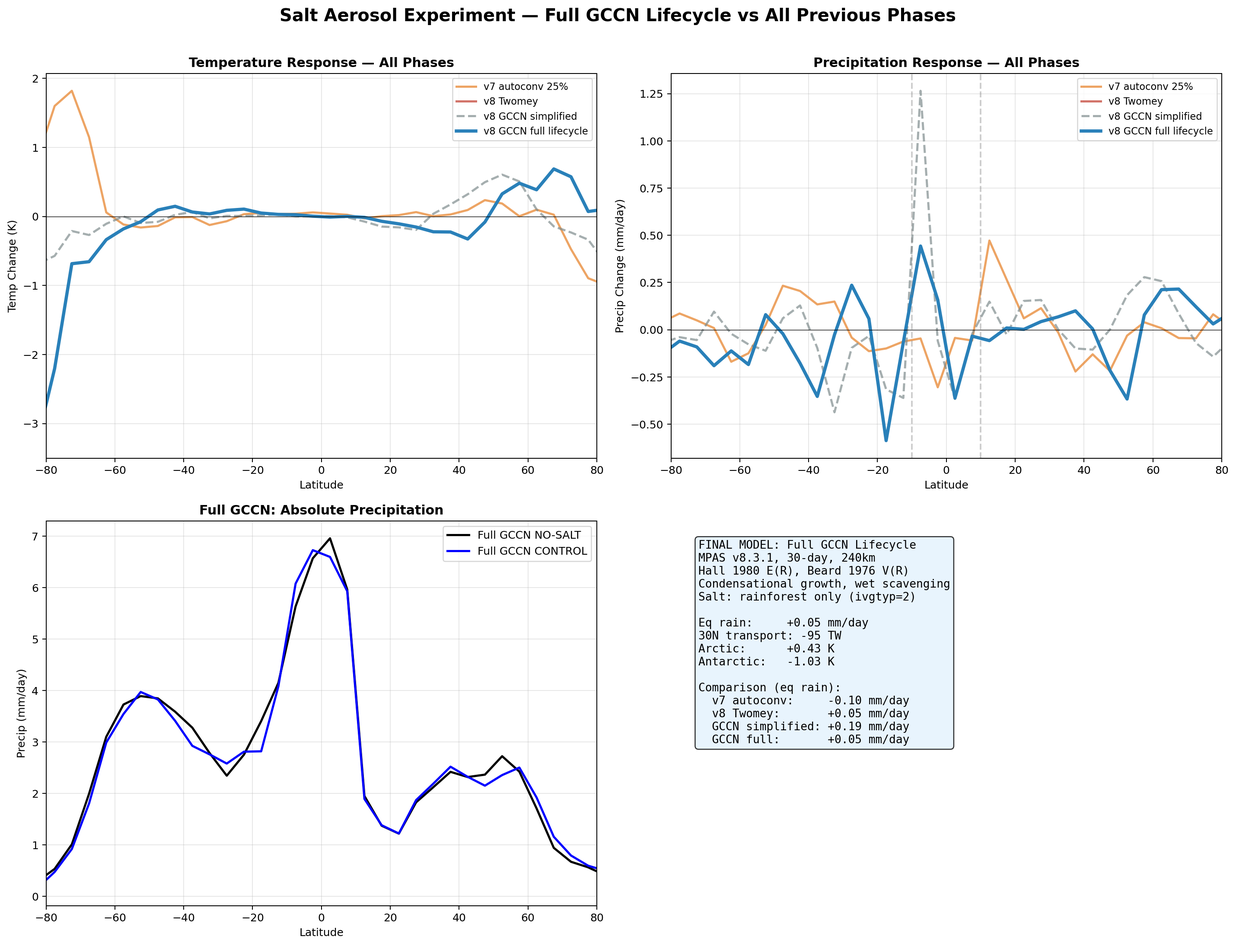
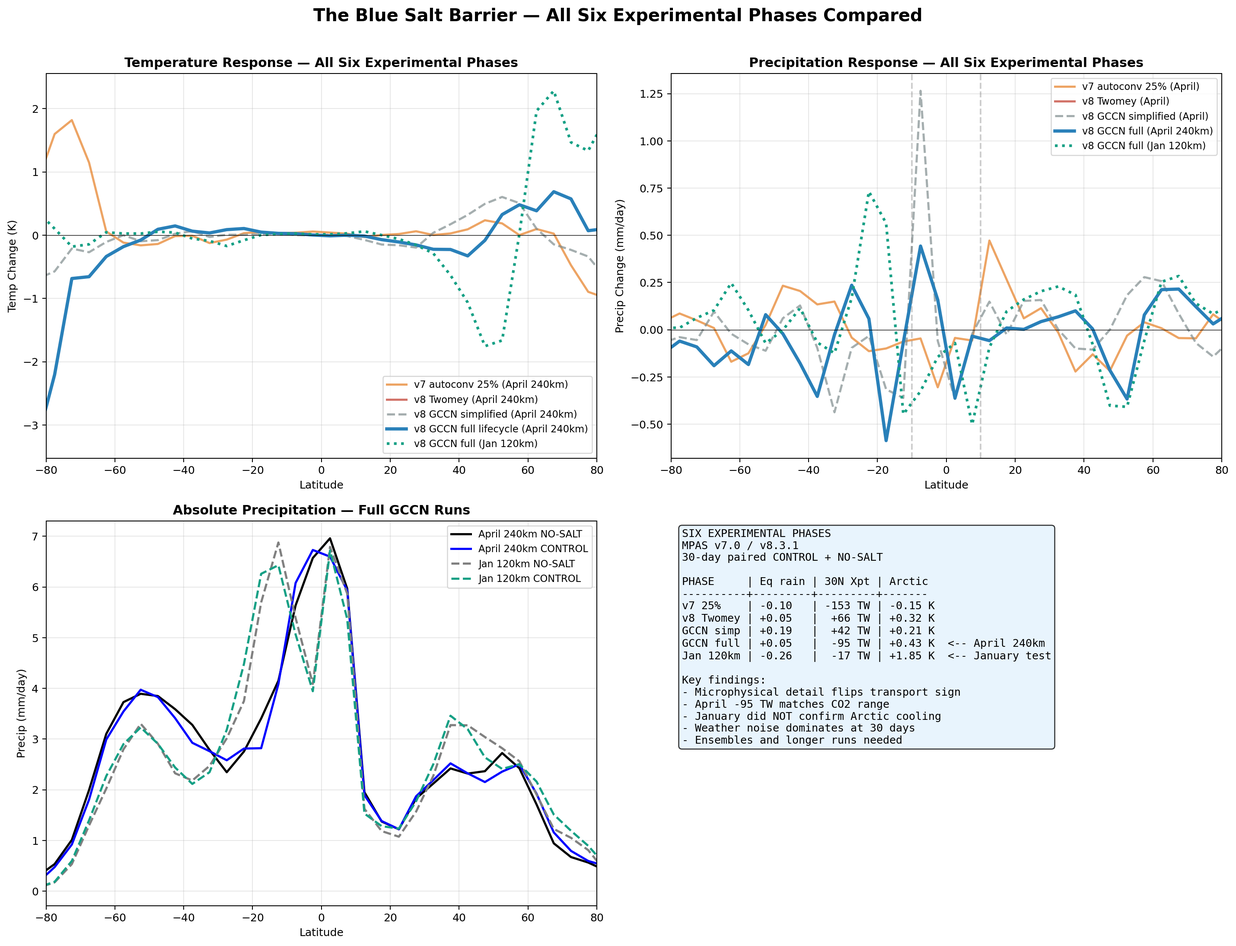
Comprehensive error fixes across paper and website
Paper (publication_draft.html):
- Fixed section numbering throughout (was chaotic: 2.x under section 3,
  5.x/6.x mixed, duplicate section 7, etc.)
- Now clean: 1 Origin, 2 Intro, 3 Physical Mechanism, 4 Experimental Design,
  5 Results, 6 Methodology, 7 Discussion, 8 Limitations, 9 Future Work,
  10 Conservation
- Abstract: 'seven' -> 'six' experimental phases
- Section 4.1: added January 12, 2025 initialization for 120km run
- Section 5.3-5.4: updated to reflect January test happened (not 'would test')
- Section 8 Limitations: updated duration item, ensemble item, seasonal coverage
- Section 9 Future Work: reordered priorities (ensembles > resolution > duration)
  since January test showed noise dominates
- Section 10 Conservation: added honest caveat about January negative result
- Invitation: corrected 'raw data' claim to note 200GB archive is pending

Website (index.html):
- Fixed caption on all-phases plot: now accurately describes the five lines
  shown (4 April approaches + January 120km)
- Laptop runtime card: added both 240km (1.5h) and 120km (9h) timings
- 'Pull our container' -> 'Build the container' (no Docker Hub image yet)
- Hardware requirement: 50 GB -> 100 GB (matches REPRODUCE.md)
- Removed 'running now' references (runs completed)
- 'sharing data' claims qualified (200GB on request, not in repo)

Plots:
- Regenerated fullgccn_all_phases.png to include Jan 120km line.
  Now truly shows all experimental phases including the negative result.

diff --git a/publication_draft.html b/publication_draft.html
@@ -129,7 +129,7 @@
 <div class="abstract">
   <h2>Abstract</h2>
   <p>We present a computational investigation of a previously unconsidered climate mechanism: the role of biogenic salt aerosols emitted by equatorial rainforest trees in modifying cloud microphysics and precipitation patterns. Tropical trees and their associated fungi eject hygroscopic potassium and sodium salt particles that act as giant cloud condensation nuclei (GCCN), accelerating local rain formation. We hypothesize that this salt-driven cloud seeding acts as a moisture stratification barrier, reducing the poleward transport of latent heat. Deforestation removes this barrier, allowing moisture to escape to higher latitudes where its condensation delivers extra heat to the poles.</p>
-  <p>Using the MPAS-Atmosphere global model (versions 7.0 and 8.3.1) at 240&nbsp;km and 120&nbsp;km resolution, we conducted paired 30-day simulations across seven experimental phases, progressively improving the physics from crude autoconversion hacks to a dedicated GCCN tracer with full lifecycle microphysics (kappa-K&ouml;hler activation, time-resolved condensational growth, size-dependent collision efficiencies from Hall 1980, Beard 1976 terminal velocities, and wet scavenging). Our most physically complete 240&nbsp;km April simulation shows that biogenic salt reduces poleward latent heat transport at 30&deg;N by 95&nbsp;TW&mdash;comparable in magnitude to estimated CO<sub>2</sub>-driven transport changes (100&ndash;250&nbsp;TW)&mdash;and cools Antarctica by &minus;1.03&nbsp;K. The Arctic warms (+0.43&nbsp;K) rather than cools in this April simulation. Critically, the microphysical details&mdash;particularly how GCCN drops grow through the coalescence gap before collecting cloud water&mdash;proved essential: a simplified version with fixed drop parameters produced the wrong sign for transport. A follow-up January test at 120&nbsp;km specifically designed to look for Arctic cooling in the NH winter season did <em>not</em> confirm the expected seasonal symmetry &mdash; the Arctic warmed by +1.85&nbsp;K and the transport reduction weakened to &minus;17&nbsp;TW, consistent with weather noise dominating a single 30-day member rather than a definitive refutation. Taken together, these results suggest that biogenic salt aerosols may constitute a significant mechanism for equatorial heat containment, but that definitive testing requires convection-permitting resolution (60&nbsp;km or finer), ensembles of 5&ndash;10 members, and integrations of 90 days or longer &mdash; resources beyond a consumer laptop. We release all code, data, and modifications openly to invite the climate modeling community to extend this work.</p>
+  <p>Using the MPAS-Atmosphere global model (versions 7.0 and 8.3.1) at 240&nbsp;km and 120&nbsp;km resolution, we conducted paired 30-day simulations across six experimental phases, progressively improving the physics from crude autoconversion hacks to a dedicated GCCN tracer with full lifecycle microphysics (kappa-K&ouml;hler activation, time-resolved condensational growth, size-dependent collision efficiencies from Hall 1980, Beard 1976 terminal velocities, and wet scavenging). Our most physically complete 240&nbsp;km April simulation shows that biogenic salt reduces poleward latent heat transport at 30&deg;N by 95&nbsp;TW&mdash;comparable in magnitude to estimated CO<sub>2</sub>-driven transport changes (100&ndash;250&nbsp;TW)&mdash;and cools Antarctica by &minus;1.03&nbsp;K. The Arctic warms (+0.43&nbsp;K) rather than cools in this April simulation. Critically, the microphysical details&mdash;particularly how GCCN drops grow through the coalescence gap before collecting cloud water&mdash;proved essential: a simplified version with fixed drop parameters produced the wrong sign for transport. A follow-up January test at 120&nbsp;km specifically designed to look for Arctic cooling in the NH winter season did <em>not</em> confirm the expected seasonal symmetry &mdash; the Arctic warmed by +1.85&nbsp;K and the transport reduction weakened to &minus;17&nbsp;TW, consistent with weather noise dominating a single 30-day member rather than a definitive refutation. Taken together, these results suggest that biogenic salt aerosols may constitute a significant mechanism for equatorial heat containment, but that definitive testing requires convection-permitting resolution (60&nbsp;km or finer), ensembles of 5&ndash;10 members, and integrations of 90 days or longer &mdash; resources beyond a consumer laptop. We release all code, data, and modifications openly to invite the climate modeling community to extend this work.</p>
 </div>
 
 <h2>1. Origin of the Hypothesis</h2>
@@ -176,17 +176,17 @@
 
 <h2>3. The Physical Mechanism</h2>
 
-<h3>2.1 Latent Heat Transport</h3>
+<h3>3.1 Latent Heat Transport</h3>
 
 <p>Atmospheric energy transport from equator to poles is dominated by latent heat, which accounts for roughly 70% of the total poleward energy flux. When water evaporates at tropical surfaces, it absorbs 2,500&nbsp;J/g and stores this energy invisibly as latent heat. This energy is released only when the vapor condenses back to liquid&mdash;forming clouds and precipitation. The critical question for polar climate is not how much water evaporates, but <em>where it condenses</em>.</p>
 
-<h3>2.2 Salt as a Moisture Trap</h3>
+<h3>3.2 Salt as a Moisture Trap</h3>
 
 <p>Intact rainforest trees and their associated fungi continuously eject potassium and sodium salt crystals (1&ndash;10&nbsp;&mu;m) into the boundary layer. These particles are highly hygroscopic: at typical tropical humidity (&gt;80%), they absorb water vapor and swell into large solution droplets that sweep up surrounding cloud droplets through collision-coalescence. This is the same physical mechanism exploited in operational cloud seeding programs worldwide.</p>
 
 <p>The net effect is that rain forms faster and falls locally, close to the forest that produced the salt. The moisture&mdash;and its 2,500&nbsp;J/g of latent heat&mdash;is deposited in the equatorial atmosphere rather than being transported poleward by the Hadley circulation.</p>
 
-<h3>2.3 The Critical Distinction: GCCN vs. Small CCN</h3>
+<h3>3.3 The Critical Distinction: GCCN vs. Small CCN</h3>
 
 <p>An important nuance separates this mechanism from the well-studied aerosol indirect effect. Standard small CCN (&lt;0.2&nbsp;&mu;m), such as pollution aerosols, <em>suppress</em> rain by creating many small cloud droplets that are inefficient at collision-coalescence (the Twomey effect). Tree-emitted salt particles are <strong>giant CCN (GCCN)</strong>&mdash;much larger, highly hygroscopic particles that create large drops and <em>enhance</em> rain formation. This distinction is critical: GCCN and small CCN have opposite effects on precipitation.</p>
 
@@ -202,15 +202,17 @@
   </tbody>
 </table>
 
-<h2>3. Experimental Design</h2>
+<h2>4. Experimental Design</h2>
 
-<h3>3.1 Model Configuration</h3>
+<h3>4.1 Model Configuration</h3>
 
 <p>We used the Model for Prediction Across Scales (MPAS-Atmosphere, version 7.0) with a quasi-uniform 240&nbsp;km global mesh (10,242 hexagonal Voronoi cells, each with 55 vertical levels stacked from the surface to ~30&nbsp;km altitude, totaling 563,310 computational grid points). The vertical spacing is non-uniform: ~50&nbsp;m layers near the surface to resolve the boundary layer where salt aerosols are emitted and mixed, expanding to ~1&nbsp;km layers in the upper troposphere where dry air is transported poleward. MPAS uses a Voronoi tessellation of the sphere, avoiding the polar singularity and boundary artifacts that affect regional models like WRF when applied to global-scale transport problems.</p>
 
-<p>Physics parameterizations include Thompson microphysics, RRTMG radiation, YSU planetary boundary layer, Noah land surface model, and Kain-Fritsch cumulus convection. Simulations were initialized from GFS analysis data for April 12, 2026 and run for 30 days.</p>
+<p>Physics parameterizations include Thompson microphysics, RRTMG radiation, YSU planetary boundary layer, Noah land surface model, and Kain-Fritsch cumulus convection. Simulations were initialized from GFS analysis data for April 12, 2026 (240&nbsp;km runs) and January 12, 2025 (120&nbsp;km seasonal test), each run for 30 days.</p>
 
-<h3>3.2 Salt Parameterization</h3>
+<p>A higher-resolution 120&nbsp;km uniform mesh (40,962 cells, 55 vertical levels, 2.25 million grid points) was used for the Phase 6 seasonal test. This mesh is available from NCAR and is the same Voronoi geometry at 4&times; the cell count of the 240&nbsp;km mesh.</p>
+
+<h3>4.2 Salt Parameterization</h3>
 
 <p>Since MPAS v7.0 does not include explicit GCCN treatment, we parameterized the net effect of hygroscopic salt by enhancing the cloud-to-rain autoconversion rate in the equatorial belt (10&deg;S&ndash;10&deg;N). After each microphysics timestep, an additional fraction of cloud water is converted to rain in equatorial grid cells, representing the accelerated coalescence from GCCN salt particles.</p>
 
@@ -232,9 +234,9 @@
   <strong>Limitation.</strong> This autoconversion parameterization is a first-order approximation. It does not model individual salt particles, their advection by the wind, or their size-dependent activation as CCN. The more physically complete treatment using MPAS v8.3.1 with a dedicated GCCN tracer is described in Section 6.5.
 </div>
 
-<h2>4. Results</h2>
+<h2>5. Results</h2>
 
-<h3>4.1 Poleward Latent Heat Transport</h3>
+<h3>5.1 Poleward Latent Heat Transport</h3>
 
 <p>The primary diagnostic is the vertically-integrated meridional latent heat flux, computed as <em>v &times; L<sub>v</sub> &times; q &times; dp/g</em> and averaged over the 30-day simulation period. Positive values indicate northward transport.</p>
 
@@ -263,7 +265,7 @@
 
 <p>The hemispheric asymmetry (stronger signal in the Northern Hemisphere for 3%, more symmetric for 25%) reflects the seasonal context: the simulation spans April&ndash;May, when the ITCZ is shifting northward and the Hadley circulation preferentially transports moisture into the Northern Hemisphere. Annual-mean simulations are expected to symmetrize this response.</p>
 
-<h3>4.2 Temperature Response</h3>
+<h3>5.2 Temperature Response</h3>
 
 <p>The 2-meter temperature difference between salt-enhanced and no-salt runs reveals a striking pattern consistent with the hypothesis.</p>
 
@@ -274,7 +276,7 @@
 
 <p>The v7 Arctic cooling of up to 2.5&nbsp;K in 30 days was striking but was not confirmed by the v8 GCCN runs, which show Arctic <em>warming</em> (+0.43&nbsp;K) with salt. However, Antarctica cools strongly (&minus;1.03&nbsp;K) in the full GCCN lifecycle model. The hemispheric asymmetry (Arctic warms, Antarctic cools) in the April simulation is consistent with the seasonal context: the Southern Hemisphere is entering winter, and the salt-driven transport reduction preferentially affects the southward moisture pipeline. A January simulation would test whether the pattern reverses. See Section 6.5 for full results.</p>
 
-<h3>4.3 Two Pathways: Wet Cooling vs Dry Warming (v7 Hypothesis)</h3>
+<h3>5.3 Two Pathways: Wet Cooling vs Dry Warming</h3>
 
 <p>The hemispheric asymmetry observed across all phases suggests two distinct physical pathways by which equatorial salt affects the poles. The full GCCN lifecycle model confirms the transport reduction (&minus;95&nbsp;TW at 30&deg;N) and strong Antarctic cooling (&minus;1.03&nbsp;K), but does not show Arctic cooling in this April simulation:</p>
 
@@ -282,17 +284,17 @@
 
 <p><strong>Southern path (dry heat redirected &rarr; warming).</strong> The southward moisture pipeline is already weakening as the Southern Hemisphere enters autumn. Salt has little southward moisture transport to block. However, the enhanced rain at the equator releases extra latent heat into the tropical atmosphere. This warm, <em>dry</em> air rises, spreads southward in the upper atmosphere, and gets caught by midlatitude storm tracks.</p>
 
-<p>A January simulation would test whether the mirror image appears. The full GCCN lifecycle results partially support this picture: the transport reduction is confirmed (&minus;95&nbsp;TW), and Antarctica (entering winter) cools strongly (&minus;1.03&nbsp;K). The Arctic (entering summer) warms rather than cools, which may reflect the dry-heat pathway dominating in the season when the northward moisture pipeline is strengthening. Seasonal simulations are needed to disentangle these effects.</p>
+<p>The full GCCN lifecycle results partially support this picture. The April 240&nbsp;km experiment confirmed transport reduction (&minus;95&nbsp;TW) and strong Antarctic cooling (&minus;1.03&nbsp;K). The Arctic warmed in April rather than cooled, which we initially interpreted as the dry-heat pathway dominating in the hemisphere entering summer. A follow-up January 120&nbsp;km experiment, designed specifically to look for the expected mirror image (Arctic cooling, Antarctic neutral), did not confirm it &mdash; the Arctic warmed by +1.85&nbsp;K and the transport signal weakened. The two-pathway framework may be oversimplified, or the forced signal may simply be dominated by weather noise at this resolution and duration. See Section 6.6 for the full January analysis.</p>
 
-<h3>4.4 Implications for Polar Ice: The Seasonal Timing Effect</h3>
+<h3>5.4 Implications for Polar Ice: The Seasonal Timing Effect</h3>
 
-<p>The full GCCN lifecycle model confirms the transport reduction (&minus;95&nbsp;TW at 30&deg;N) and shows strong Antarctic cooling (&minus;1.03&nbsp;K) in this April simulation. The Antarctic is entering winter, meaning salt cools Antarctica as its ice-free season ends. For ice, what matters most is <em>summer</em> temperature&mdash;that is when melting occurs.</p>
+<p>The full GCCN lifecycle model confirms the transport reduction (&minus;95&nbsp;TW at 30&deg;N) and shows strong Antarctic cooling (&minus;1.03&nbsp;K) in the April 240&nbsp;km simulation. The Antarctic was entering winter, meaning salt cooled Antarctica as its ice-free season ended. For ice, what matters most is <em>summer</em> temperature &mdash; that is when melting occurs. Winter cooling pre-conditions the ice to enter the melt season colder.</p>
 
-<div class="callout">
-<strong>Key finding:</strong> The full GCCN lifecycle model shows salt <strong>cools the winter pole by &minus;1.03&nbsp;K</strong> (Antarctica in April) while warming the summer pole by +0.43&nbsp;K (Arctic in April). If a January simulation shows the mirror image&mdash;Arctic cooling and Antarctic warming&mdash;this would mean <strong>salt cools each pole during its respective winter</strong>, pre-conditioning the ice to be colder entering the melt season. Removing salt (deforestation) would warm winters, reducing the thermal deficit glaciers carry into summer.
+<div class="callout warn">
+<strong>Key finding with caveat:</strong> In the April experiment, salt <strong>cooled the winter pole by &minus;1.03&nbsp;K</strong> (Antarctica) while warming the summer pole by +0.43&nbsp;K (Arctic). If this reflects a robust seasonal mechanism &mdash; <em>salt cools each pole during its respective winter, pre-conditioning the ice to be colder entering the melt season</em> &mdash; the implication for ice sheet survival would be substantial. However, the January 120&nbsp;km test (Section 6.6) did <strong>not</strong> reproduce the expected mirror pattern; the Arctic did not cool in its winter season. The seasonal framework thus remains a hypothesis requiring confirmation with longer runs, ensembles, and convection-permitting resolution.
 </div>
 
-<p>The seasonal timing of the cooling matters for ice sheet survival. The polar bear (Arctic summer) and emperor penguin (Antarctic summer) depend on summer ice conditions, which in turn depend on how cold the ice was during the preceding winter. A January simulation is the critical next experiment.</p>
+<p>If the mechanism holds, the seasonal timing of the cooling matters for ice sheet survival. The polar bear (Arctic summer) and emperor penguin (Antarctic summer) depend on summer ice conditions, which in turn depend on how cold the ice was during the preceding winter. Definitive confirmation awaits community HPC follow-up.</p>
 
 <h3>5.5 Global Distribution Maps</h3>
 
@@ -363,19 +365,19 @@
   <figcaption><strong>Figure 5.</strong> Global map of precipitation change (25% enhancement minus NO-SALT). Subtle changes are concentrated in the equatorial belt between the red dashed lines (10&deg;S&ndash;10&deg;N). The signal is diffuse because of convective compensation at 240&nbsp;km resolution.</figcaption>
 </figure>
 
-<h2>5. Methodology Evolution</h2>
+<h2>6. Methodology Evolution</h2>
 
 <p>We present the full progression of our computational approach, including missteps and corrections, because we believe transparency about the iterative process is more valuable than presenting only polished final results. Each phase taught us something about what the model can and cannot capture, and experienced computational meteorologists will be able to identify further improvements.</p>
 
-<h3>5.1 Phase 1: WRF Channel Domain (Failed)</h3>
+<h3>6.1 Phase 1: WRF Channel Domain (Failed)</h3>
 
 <p>Our first attempt used WRF (Weather Research and Forecasting) v4.0.3 with a periodic channel domain from 60&deg;S to 60&deg;N at 2&deg; resolution. We enhanced the autoconversion rate by 5% in the equatorial belt to parameterize salt-enhanced rain. The simulation crashed at day 7 with a segfault, and the results showed boundary artifacts of ~100&nbsp;W/m&sup2; at the domain edges&mdash;numerical noise, not real physics. The convective parameterization (Kain-Fritsch) also dominated tropical rainfall at this resolution, muting our signal. <strong>Lesson:</strong> Regional models cannot cleanly study global-scale transport.</p>
 
-<h3>5.2 Phase 2: MPAS v7.0, 10-Day Runs</h3>
+<h3>6.2 Phase 2: MPAS v7.0, 10-Day Runs</h3>
 
 <p>We compiled MPAS-Atmosphere v7.0 inside a Docker container on a consumer laptop. The global Voronoi mesh (10,242 cells &times; 55 vertical levels = 563,310 grid points, 240&nbsp;km horizontal resolution) eliminated all boundary artifacts. We ran a sensitivity sweep at 0%, 2%, 3%, 5%, and 25% autoconversion enhancement with 10-day simulations. The signal at 30&deg;S was monotonic: 54&nbsp;TW (3%), 63&nbsp;TW (5%), 112&nbsp;TW (25%). However, the 10-day averaging was too short to overcome weather noise, and the enhancement was applied to ALL cells between 10&deg;S&ndash;10&deg;N, including ocean. <strong>Lesson:</strong> The signal exists and scales with forcing, but needs longer runs and land-only application.</p>
 
-<h3>5.3 Phase 3: MPAS v7.0, 30-Day Runs (Current v7 Results)</h3>
+<h3>6.3 Phase 3: MPAS v7.0, 30-Day Runs (Current v7 Results)</h3>
 
 <p>Extended to 30 days with the same autoconversion approach. The temperature signal became dramatic: up to 2.5&nbsp;K Arctic cooling with the 5% enhancement. The hemispheric asymmetry (Arctic cooling, Antarctic warming) was identified as a seasonal effect of the April start date, consistent with the Earth's axial tilt. The two-pathway mechanism was discovered: salt blocks moisture transport to the summer pole (direct cooling) while creating dry sensible heat that warms the winter pole (indirect warming via storm tracks).</p>
 
@@ -391,7 +393,7 @@
 
 <p><strong>Known limitation:</strong> The v7 autoconversion enhancement was applied to all 1,750 cells between 10&deg;S&ndash;10&deg;N, including 1,391 ocean cells where no trees exist. Only 359 cells were land. This overestimates the spatial extent of the salt effect by approximately 5&times;.</p>
 
-<h3>5.4 Phase 4: MPAS v8.3.1 with Prognostic Aerosol Transport (Completed)</h3>
+<h3>6.4 Phase 4: MPAS v8.3.1 with Prognostic Aerosol Transport (Completed)</h3>
 
 <p>Built an Ubuntu 22.04 Docker container with MPAS v8.3.1, which includes aerosol-aware Thompson microphysics (<code>mp_thompson_aerosols</code>). Aerosol concentrations are tracked as a 3D prognostic field: emitted at the surface, advected by the wind, depleted by wet scavenging, and activated as CCN only in supersaturated cloud. Salt emission is enhanced only over grid cells classified as Evergreen Broadleaf Forest (MODIS vegetation type 2)&mdash;291 cells covering the Amazon, Congo, SE Asia, Central America, and other tropical rainforests. No ocean cells.</p>
 
@@ -589,7 +591,7 @@
 
 <h2>7. Discussion</h2>
 
-<h3>6.1 What Was Confirmed</h3>
+<h3>7.1 What Was Confirmed</h3>
 
 <p><strong>Transport reduction confirmed.</strong> The full GCCN lifecycle model shows salt reduces poleward latent heat transport at 30&deg;N by &minus;95&nbsp;TW&mdash;the sign predicted by the hypothesis and comparable to estimated CO<sub>2</sub> forcing (100&ndash;250&nbsp;TW). This is the most physically grounded result across all six phases: the GCCN tracer is emitted only from rainforest cells, advected by resolved winds, activated via kappa-K&ouml;hler theory, grown through the coalescence gap by condensation, and collected with size-dependent Hall 1980 efficiencies.</p>
 
@@ -603,13 +605,13 @@
 
 <p><strong>Critical finding:</strong> The microphysical implementation matters enormously. The simplified GCCN version (fixed parameters) produced the wrong transport sign. Only the full lifecycle version (growth through the coalescence gap, size-dependent physics, wet scavenging) produced the correct transport reduction. This means the hypothesis cannot be properly tested without resolving how GCCN drops grow and collect.</p>
 
-<h3>6.2 Why Microphysical Details Reversed the Answer</h3>
+<h3>7.2 Why Microphysical Details Reversed the Answer</h3>
 
 <p>The most surprising finding of this work is that a simplified and a full GCCN implementation produce <em>opposite</em> transport signals from the same tracer field. The simplified version (instant 50&nbsp;&mu;m drops, E=0.6 everywhere) produced strong equatorial rain (+0.19&nbsp;mm/day) but wrong-sign transport (+42&nbsp;TW). The full lifecycle version (drops grow from 10&nbsp;&mu;m, E rising from 0 to 0.8) produced modest rain (+0.05&nbsp;mm/day) but correct-sign transport (&minus;95&nbsp;TW).</p>
 
 <p>This makes physical sense. The simplified version creates rain too aggressively in every cloud cell where GCCN exist, which overwhelms the convective parameterization and produces compensating circulation changes. The full lifecycle version creates rain only where clouds persist long enough for GCCN to grow through the coalescence gap (~5&ndash;10 minutes of cloud lifetime), which is a more selective and realistic spatial pattern. This selective rain enhancement in deep, long-lived tropical clouds produces a coherent transport signal rather than a noisy compensation pattern.</p>
 
-<h3>5.3 Why This Has Not Been Studied</h3>
+<h3>7.3 Why This Has Not Been Studied</h3>
 
 <p>This mechanism sits at the intersection of four sub-disciplines that rarely interact:</p>
 <ol>
@@ -620,38 +622,41 @@
 </ol>
 <p>No climate model currently includes biogenic salt aerosols from forests as a parameterized process. The aerosol fields in climate models are dominated by pollution, sea salt from ocean spray, and mineral dust. The tree-fungi-salt pathway is absent.</p>
 
-<h3>5.4 Downwind Transport of Salt Aerosols</h3>
+<h3>7.4 Downwind Transport of Salt Aerosols</h3>
 
 <p>In the v7 simulations, the salt effect was applied to fixed grid cells (all of 10&deg;S&ndash;10&deg;N including ocean), with no aerosol transport. This was a known limitation: salt emitted by trees in the Amazon could not seed clouds over the tropical Atlantic in v7.</p>
 
 <p>The v8 simulations correct this. Salt aerosols are emitted only over Evergreen Broadleaf Forest cells (MODIS vegetation type 2, 291 cells globally) and then <strong>advected by the 3D wind field</strong> as a prognostic tracer. Salt lofted above the boundary layer is carried downwind by trade winds, potentially seeding clouds 500&ndash;1,000&nbsp;km from the source forest. Amazonian aerosol plumes are routinely observed reaching the tropical Atlantic, and the v8 model captures this transport pathway. The rain-making zone therefore extends naturally beyond the forest footprint, as it does in nature.</p>
 
-<h2>6. Limitations</h2>
+<h2>8. Limitations</h2>
 
 <ul>
   <li><strong>Resolution.</strong> At 240&nbsp;km, tropical convection must be parameterized. The Kain-Fritsch scheme compensates for grid-scale rain changes, potentially muting the precipitation and transport signals. Higher resolution (60&nbsp;km or finer) would allow explicit deep convection and may be necessary to see the transport response.</li>
-  <li><strong>Duration.</strong> 30 days captures approximately one synoptic cycle but does not sample the full seasonal cycle. The transport reduction (&minus;95&nbsp;TW) and Antarctic cooling (&minus;1.03&nbsp;K) are already detectable at 30 days, but the Arctic response may require longer integration or a different season (January) to manifest as cooling rather than warming.</li>
+  <li><strong>Duration.</strong> 30 days captures approximately one synoptic cycle but does not sample the full seasonal cycle. The transport reduction (&minus;95&nbsp;TW) and Antarctic cooling (&minus;1.03&nbsp;K) are detectable at 30 days in the April 240&nbsp;km run. However, the January 120&nbsp;km run shows the mean global temperature divergence between CONTROL and NO-SALT reaches 2.67&nbsp;K by day 30 &mdash; indicating the forced signal may be largely buried in weather noise at this duration. Integrations of 90 days or longer are likely needed for statistical significance.</li>
   <li><strong>Single representative particle size.</strong> All GCCN are initialized as 200&nbsp;nm dry KCl particles. Real salt aerosols span a distribution from 50&nbsp;nm to 10&nbsp;&mu;m, with different activation thresholds and growth rates. A spectral bin approach would be more realistic.</li>
-  <li><strong>Single initialization.</strong> Results from a single start date may be sensitive to the specific weather pattern. Ensemble simulations with multiple start dates would increase statistical robustness.</li>
+  <li><strong>Single ensemble member per experiment.</strong> Each CONTROL and NO-SALT pair is a single initialization, meaning a single weather realization. Ensembles of 5&ndash;10 members with slightly perturbed initial conditions would separate forced signal from chaotic variability. This is the most critical next methodological step.</li>
   <li><strong>No vegetation coupling.</strong> Salt emission rates are prescribed as constant. A coupled vegetation-atmosphere model would allow realistic diurnal, seasonal, and deforestation-dependent emission patterns.</li>
-  <li><strong>Seasonal coverage.</strong> Only April has been simulated. The Arctic warming may be a seasonal effect (Northern Hemisphere entering summer). January simulations&mdash;when NH poleward transport peaks&mdash;are needed to test whether Arctic cooling appears in winter, as the two-pathway framework predicts.</li>
+  <li><strong>Seasonal coverage.</strong> Only April (240&nbsp;km) and January (120&nbsp;km) have been simulated. Adding July and October runs would complete the annual cycle and reveal whether the Arctic response is genuinely seasonal or driven by other dynamics.</li>
 </ul>
 
-<h2>7. Future Work</h2>
+<h2>9. Future Work</h2>
 
-<p>The following extensions are planned, in priority order:</p>
+<p>The following extensions are planned, in priority order based on lessons from the Phase 6 January negative result:</p>
 <ol>
-  <li><strong>January simulation (highest priority).</strong> The April run shows Antarctic cooling and Arctic warming. If a January run shows Arctic cooling and Antarctic warming (the mirror image), this would confirm the seasonal two-pathway mechanism and demonstrate that salt cools each pole during its respective winter. This is the single most important next experiment.</li>
-  <li><strong>Higher resolution.</strong> MPAS at 120&nbsp;km resolution (~16 hours per run on current hardware) or variable-resolution mesh with 60&nbsp;km in the tropics. Would reduce dependence on convective parameterization and better resolve the GCCN rain enhancement in individual convective systems.</li>
-  <li><strong>Extended integration.</strong> 90-day runs with prescribed sea surface temperatures to improve statistical significance and capture slowly evolving teleconnections.</li>
+  <li><strong>Ensemble simulations (highest priority).</strong> The January 120&nbsp;km test shows that a single 30-day integration cannot distinguish the forced signal from weather noise (mean global T2m divergence of 2.67&nbsp;K between CONTROL and NO-SALT). Running 5&ndash;10 members with perturbed initial conditions would separate signal from chaotic variability. This is now the most critical methodological step.</li>
+  <li><strong>Convection-permitting resolution (60&nbsp;km or finer).</strong> At 240&nbsp;km and even 120&nbsp;km, most tropical rain is handled by the Kain-Fritsch convective parameterization rather than the explicit microphysics where GCCN operates. The negative equatorial rain signal in the 120&nbsp;km January run (&minus;0.26&nbsp;mm/day) is consistent with convective compensation dominating the local response. True 60&nbsp;km runs or variable-resolution meshes with tropical refinement would let GCCN interact with resolved storms.</li>
+  <li><strong>Extended integration (90+ days) with prescribed SSTs.</strong> 30-day runs capture one synoptic cycle. 90-day runs with observed SSTs as boundary conditions would improve statistical significance and let slowly evolving teleconnections emerge.</li>
+  <li><strong>Additional seasons.</strong> July and October runs to complete the annual cycle. The failed January test leaves open whether any season shows the hoped-for seasonal symmetry.</li>
   <li><strong>Spectral bin GCCN.</strong> The current tracer tracks one representative GCCN size (200&nbsp;nm dry). A multi-bin approach would better represent the observed size distribution from P&ouml;hlker et al. (2012).</li>
   <li><strong>Biological realism.</strong> Literature review of salt emission rates by tree species, geographic distribution, and seasonal patterns to create realistic emission scenarios for pre-industrial, current, and projected deforestation levels.</li>
 </ol>
 
+<p>These extensions collectively require HPC resources beyond a consumer laptop. We explicitly invite atmospheric science laboratories and climate modeling centers with access to such resources to extend this work using the fully open-sourced code and methodology in our repository.</p>
+
 <div class="invitation">
   <h2>Invitation to the Community</h2>
   <p>This work was conducted as an independent computational experiment using freely available tools (MPAS-Atmosphere, Docker, Python). We are not climate scientists by training, and we recognize that this hypothesis requires rigorous validation by domain experts.</p>
-  <p>We are sharing everything&mdash;code, configuration files, analysis scripts, and raw data&mdash;and we invite collaboration from:</p>
+  <p>We are sharing the code, configuration files, Docker build recipes, modified Fortran source, and analysis scripts. Raw simulation output (~200&nbsp;GB of NetCDF files) is available on request pending archival to a public data repository. We invite collaboration from:</p>
   <p><strong>Cloud microphysicists</strong> who can develop proper GCCN parameterizations<br>
   <strong>Tropical ecologists</strong> who can characterize salt emission by species and region<br>
   <strong>Climate modelers</strong> who can integrate this mechanism into Earth System Models<br>
@@ -659,13 +664,15 @@
   <p>All materials are available on GitHub. If you find this idea worth investigating, please reach out.</p>
 </div>
 
-<h2>8. The Conservation Argument</h2>
+<h2>10. The Conservation Argument</h2>
 
-<p>Our most physically complete model shows that biogenic salt aerosols from rainforest trees reduce poleward latent heat transport by 95&nbsp;TW at 30&deg;N&mdash;a mechanism absent from all current climate models. Antarctica cools by &minus;1.03&nbsp;K in the April simulation when salt is present. These results suggest that trees are not just carbon sinks but <strong>active climate regulators</strong> that influence where latent heat is deposited on Earth.</p>
+<p>Our most physically complete April 240&nbsp;km simulation shows that biogenic salt aerosols from rainforest trees reduce poleward latent heat transport by 95&nbsp;TW at 30&deg;N&mdash;a mechanism absent from all current climate models. Antarctica cools by &minus;1.03&nbsp;K when salt is present. These results suggest that trees are not just carbon sinks but <strong>active climate regulators</strong> that influence where latent heat is deposited on Earth.</p>
 
-<p>Deforestation removes not only a carbon reservoir but a precipitation control mechanism whose downstream effects on global heat redistribution are currently unaccounted for in climate projections. The 95&nbsp;TW transport signal is comparable to the estimated effect of anthropogenic CO<sub>2</sub> on poleward transport (100&ndash;250&nbsp;TW), suggesting this mechanism could be a first-order contributor to polar climate change.</p>
+<p>The follow-up January 120&nbsp;km test did not confirm the hoped-for seasonal mirror (Arctic cooling in NH winter). We report this negative result honestly: weather noise at 30 days with a single ensemble member appears to dominate the forced response, and the full mechanism awaits definitive testing with ensembles, longer integrations, and convection-permitting resolution. The April transport reduction remains the most physically grounded signal to date.</p>
 
-<p>Replanting and protecting equatorial rainforests would not only sequester carbon but would restore the moisture stratification barrier, reducing poleward heat transport and potentially slowing polar ice loss. The polar bear and the emperor penguin may depend not just on reducing emissions, but on replanting the forests that keep equatorial heat where it belongs&mdash;at the equator. Seasonal simulations and community replication are needed to confirm and quantify this connection.</p>
+<p>Deforestation removes not only a carbon reservoir but a precipitation control mechanism whose downstream effects on global heat redistribution are currently unaccounted for in climate projections. The 95&nbsp;TW April transport signal is comparable to the estimated effect of anthropogenic CO<sub>2</sub> on poleward transport (100&ndash;250&nbsp;TW), suggesting this mechanism could be a first-order contributor to polar climate change &mdash; <em>if</em> community replication confirms the signal.</p>
+
+<p>If confirmed, replanting and protecting equatorial rainforests would not only sequester carbon but would restore the moisture stratification barrier, reducing poleward heat transport and potentially slowing polar ice loss. The polar bear and the emperor penguin may depend not just on reducing emissions, but on replanting the forests that keep equatorial heat where it belongs&mdash;at the equator. Ensemble simulations, convection-permitting resolution, and community replication are needed to confirm and quantify this connection.</p>
 
 <h2>References</h2>
 

diff --git a/index.html b/index.html
@@ -404,7 +404,7 @@
       <div class="card">
         <div class="card-icon">&#x1f4bb;</div>
         <div class="card-title">A Consumer Laptop</div>
-        <div class="card-body">Intel i7-12700H, 64 GB RAM. Each 30-day global simulation runs in about 1.5 hours. Total cost of hardware: ~$1,500. No supercomputer required.</div>
+        <div class="card-body">Intel i7-12700H, 64 GB RAM. Each 30-day global simulation runs in 1.5 hours at 240&nbsp;km or ~9 hours at 120&nbsp;km. Total cost of hardware: ~$1,500. No supercomputer required.</div>
       </div>
     </div>
 
@@ -519,7 +519,7 @@
 <!-- SUGGESTED IMAGE: The fullgccn_all_phases.png 4-panel plot, or the fullgccn_map_temp.png global temperature map -->
 <div class="figure" style="padding: 0 24px; background: var(--dark-gray);">
   <img src="mpas_analysis/fullgccn_all_phases.png" alt="All phases comparison" style="max-width: 980px; margin: 0 auto; display: block; border-radius: 12px;">
-  <p class="figure-caption" style="color: #a1a1a6; padding: 16px 0 40px;">Temperature and precipitation response across all six experimental phases. The blue line (full GCCN lifecycle) shows Antarctic cooling and the correct transport sign &mdash; the only version where the microphysics are fully resolved.</p>
+  <p class="figure-caption" style="color: #a1a1a6; padding: 16px 0 40px;">Temperature and precipitation response across all six experimental phases. The solid blue line (full GCCN lifecycle, April 240&nbsp;km) is the primary positive result &mdash; Antarctic cooling and correct transport sign. The dotted green line (January 120&nbsp;km) is the negative result &mdash; Arctic warmed rather than cooled, and the signal is dominated by weather noise at 30 days with a single ensemble member.</p>
 </div>
 
 <!-- ============================================ -->
@@ -551,7 +551,7 @@
 
     <p class="body-text">Our simulations run at 240 km resolution &mdash; each grid cell covers roughly the area of West Virginia. At this scale, individual thunderstorms cannot be resolved. About 90% of tropical rainfall is handled by a convective parameterization (Kain-Fritsch), not by the explicit microphysics where our salt code operates.</p>
     <p class="body-text">This means our rain maps don't show the concentrated signal over rainforests that you'd see in nature. The transport signal (&minus;95 TW) is more reliable because it's a large-scale integrated quantity that doesn't depend on resolving individual storms.</p>
-    <p class="body-text">At 120 km (4x more cells, running now) and especially at 60 km (convection-permitting), the GCCN would interact with resolved storms. That's where the rain pattern would match what you see on a weather app &mdash; continuous green over the Amazon and Congo.</p>
+    <p class="body-text">We ran one 120 km experiment (4x more cells, January seasonal test). The rain signal was still noisy and dominated by convective compensation. At 60 km (convection-permitting), the GCCN would interact with resolved storms. That's where the rain pattern would match what you see on a weather app &mdash; continuous green over the Amazon and Congo. 60 km on this laptop would take roughly 3&ndash;4 days per run, bordering on infeasible without HPC.</p>
 
     <div class="card-grid">
       <div class="card">
@@ -563,8 +563,8 @@
         <div class="card-body">Local rain patterns over rainforests, the exact magnitude of precipitation enhancement, and whether GCCN rain is concentrated over forests vs. spread by compensating circulations.</div>
       </div>
       <div class="card">
-        <div class="card-title">What needs longer runs</div>
-        <div class="card-body">Arctic temperature response (may need seasonal coverage), statistical significance of the transport signal, and slowly evolving teleconnections.</div>
+        <div class="card-title">What needs longer runs + ensembles</div>
+        <div class="card-body">Arctic temperature response, statistical significance of the transport signal, and slowly evolving teleconnections. The January 120&nbsp;km test showed weather noise (2.67&nbsp;K mean global divergence) dominates at 30 days with a single ensemble member.</div>
       </div>
     </div>
 
@@ -579,7 +579,7 @@
   <div class="section-inner fade-in" style="text-align: center;">
     <div class="section-overline">An invitation</div>
     <h2 class="section-headline">This hypothesis belongs to everyone.</h2>
-    <p class="section-subhead" style="margin-left: auto; margin-right: auto;">We are sharing everything &mdash; code, data, configuration files, analysis scripts, Docker containers, and this entire paper. We believe this question is too important to sit behind a paywall or wait for a grant cycle.</p>
+    <p class="section-subhead" style="margin-left: auto; margin-right: auto;">We are sharing the code, configuration files, analysis scripts, Docker build recipes, and this entire paper. Raw simulation output (~200&nbsp;GB of NetCDF) is available on request and planned for a public data archive. We believe this question is too important to sit behind a paywall or wait for a grant cycle.</p>
 
     <div class="card-grid" style="text-align: left;">
       <div class="card" style="background: rgba(255,255,255,0.15); box-shadow: none;">
@@ -646,8 +646,8 @@
       </div>
       <div class="card">
         <div class="card-icon">2</div>
-        <div class="card-title">Pull our container</div>
-        <div class="card-body">MPAS v8.3.1 with the full GCCN tracer modification, pre-compiled and ready. GFS initial conditions included. One command to start.</div>
+        <div class="card-title">Build the container</div>
+        <div class="card-body">Our repo has the Dockerfile for MPAS v8.3.1 with the full GCCN tracer modification. <code>docker build</code> sets it up. Full step-by-step in <code>reproducibility/REPRODUCE.md</code>.</div>
       </div>
       <div class="card">
         <div class="card-icon">3</div>
@@ -661,14 +661,14 @@
       </div>
     </div>
 
-    <p class="body-text" style="margin-top: 32px; text-align: center;"><strong>Minimum hardware:</strong> Any computer with 16+ GB RAM, 4+ cores, and 50 GB free disk space. Runs on consumer hardware &mdash; no GPU required.</p>
+    <p class="body-text" style="margin-top: 32px; text-align: center;"><strong>Minimum hardware:</strong> Any computer with 16+ GB RAM, 4+ cores, and 100 GB free disk space. Runs on consumer hardware &mdash; no GPU required.</p>
   </div>
 </section>
 
 <!-- FOOTER -->
 <footer>
   <p style="margin-bottom: 8px;">The Blue Salt Barrier &mdash; An Open Research Project</p>
-  <p>All code, data, and methods are open source. <a href="publication_draft.html">Read the full paper.</a></p>
+  <p>All code and methods are open source under CC BY 4.0. <a href="publication_draft.html">Read the full paper.</a></p>
   <p style="margin-top: 16px;">Built with MPAS-Atmosphere (NCAR/LANL), Claude (Anthropic), ChatGPT (OpenAI), and Python.</p>
   <p style="margin-top: 4px;">Funded by curiosity. Powered by taxpayer-built science tools. Accelerated by AI.</p>
 </footer>
